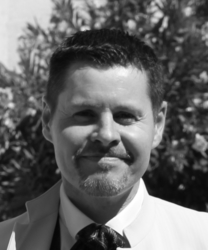
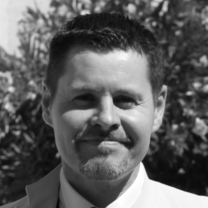
modification html photo et début css media queries

diff --git a/css/style.css b/css/style.css
@@ -1,6 +1,6 @@
 html, body /* page principale */
 {
-    height: 100%;
+    height: 100vh;
     margin: 0;
     padding: 0;
 }
@@ -17,7 +17,7 @@ html, body /* page principale */
 {
     display: flex;
     flex-direction: column;
-    height: 100%;
+    height: auto;
     width: 384px;
     background-color: #008b8b;
     justify-content: space-between;
@@ -25,14 +25,12 @@ html, body /* page principale */
     text-align: center;
 }
 
-#photo /* taille et position photo */
+#column #photo>img /* taille et position photo */
 {
-    background: url(../image/michael_mini.jpg);
-    width: 250px;
-    height: 250px;
+    width: 100%;
+    border: .1rem solid #000000;
     border-radius: 50%;
-    background-position: center;
-    margin-top: 3em;
+    margin-top: 1rem;
 }
 
 .top /* barre titre des éléments internes à la colonne */
@@ -196,12 +194,16 @@ h1 /* identité bicolore */
     #main
     {
         height: 100%;
-        overflow: auto;
+        width: 100%;
     }
     #main, #experience, .first
     {
         flex-flow: column nowrap;
         align-items: center;
+    }
+    #column, .top
+    {
+        width: 100%;
     }
     #name
     {
@@ -214,7 +216,7 @@ h1 /* identité bicolore */
     }
     .first, .second, .job, #experience h2
     {
-        width: 90%;
+        width: 85%;
     }
 }
 @media only screen and (min-width: 600px)

diff --git a/index.html b/index.html
@@ -14,7 +14,9 @@
     <div id="main">
         <!-- left part -->
         <section id="column">
-            <div id="photo"></div>
+            <div id="photo">
+                <img src="image/michael_mini.jpg" alt="Michaël Monot"/>
+            </div>
             <!-- Contact -->
             <div id="contact">
                 <h2 class="top">contact</h2>
